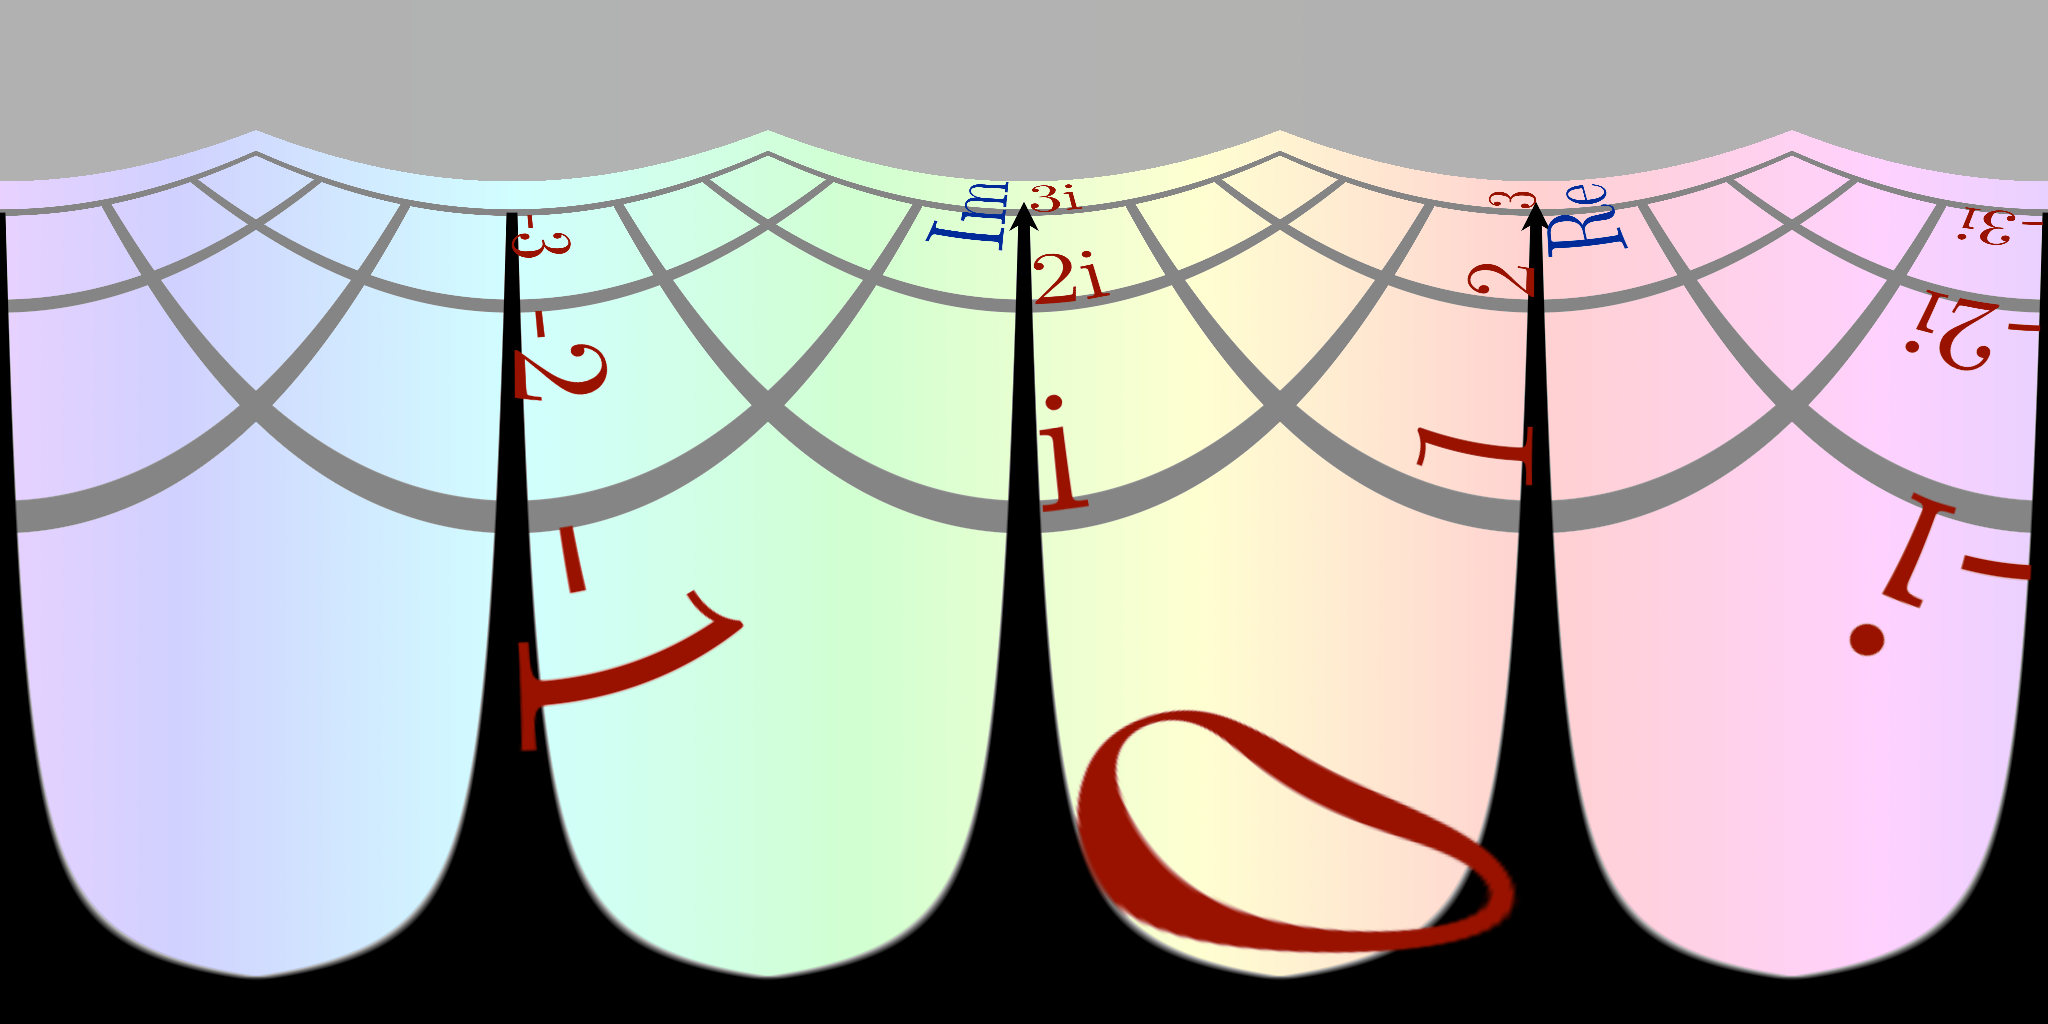
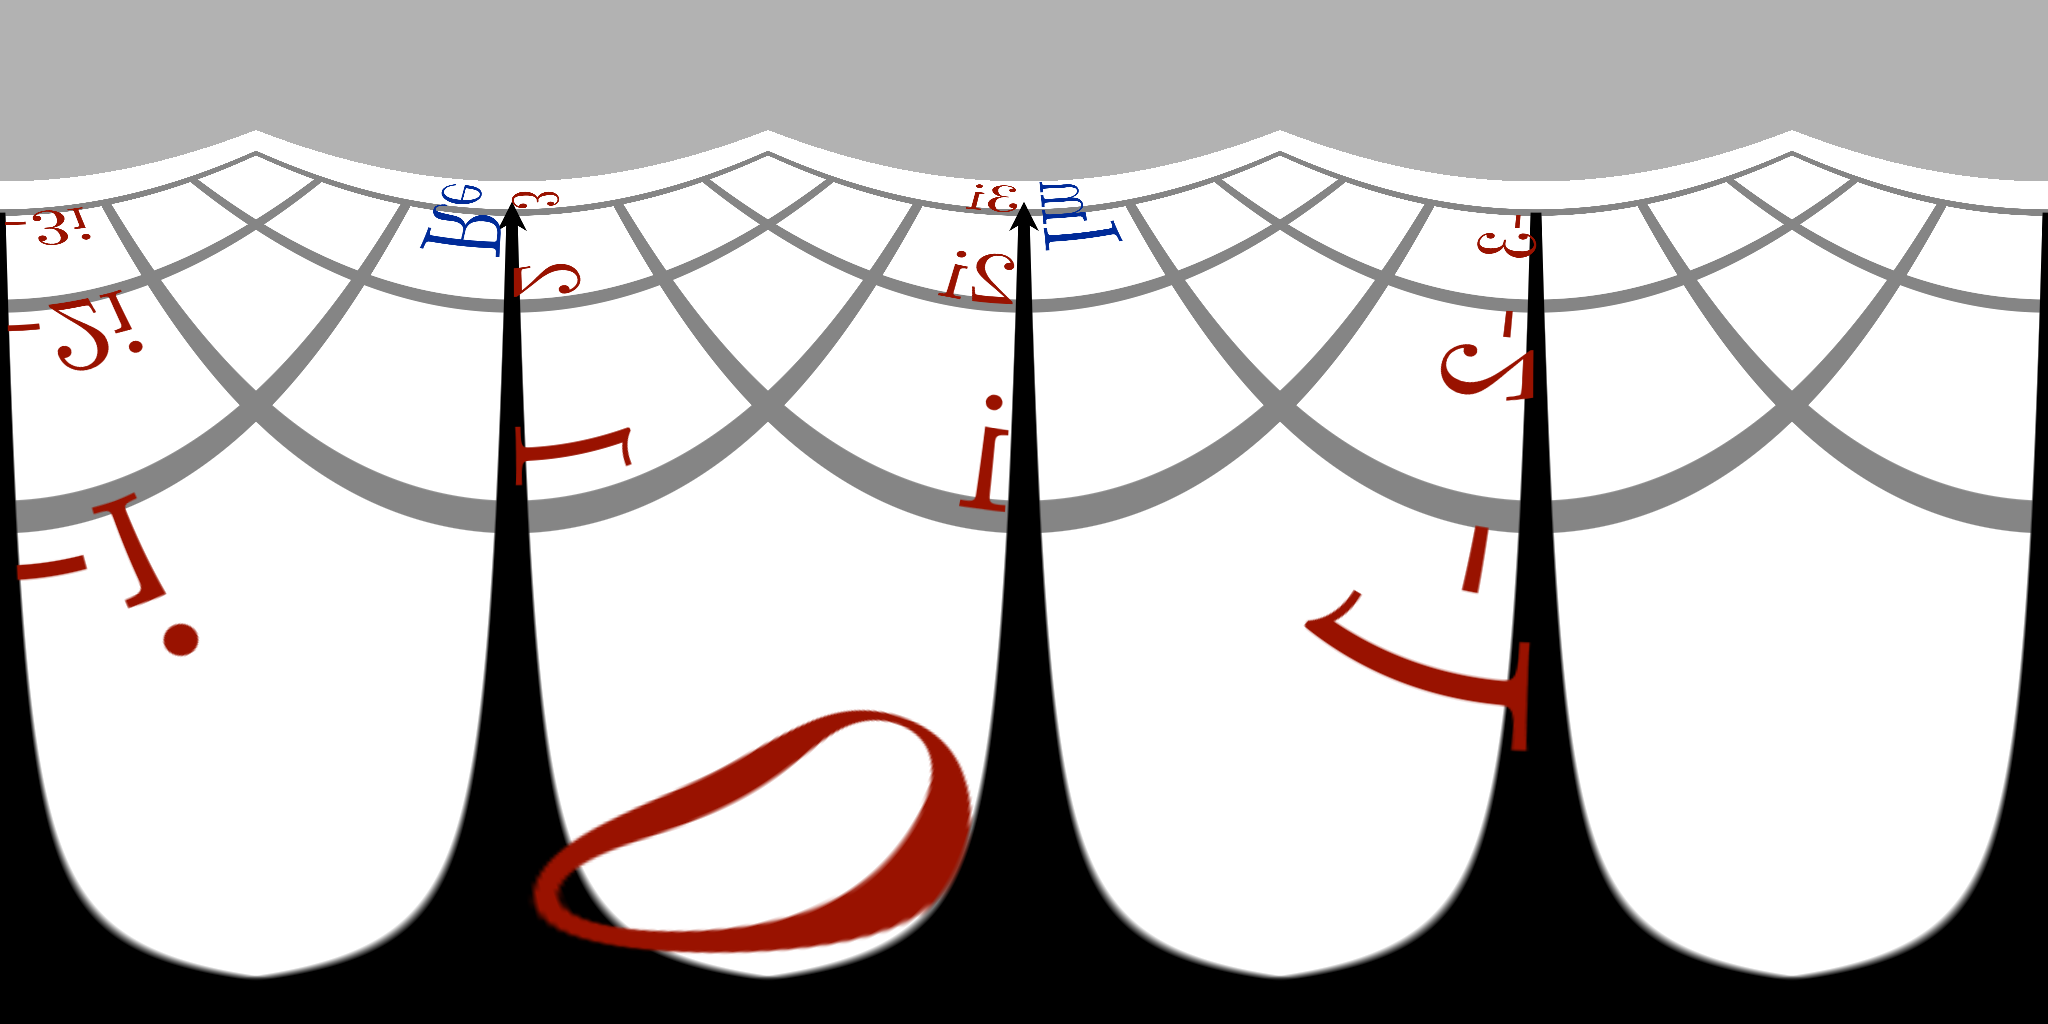
use phase based coloring for both stereographic and spherical

diff --git a/stereographic/index.html b/stereographic/index.html
@@ -110,7 +110,7 @@ switchmode():= (
   
   if(mode==0,
     readcamera(latlon) := (
-      imagergb([-pi,-pi/2], [pi,-pi/2], "complex", (latlon_2, latlon_1), repeat->true);
+      .8*imagergb([-pi,-pi/2], [pi,-pi/2], "complex", (latlon_2, latlon_1), repeat->true)+.2*hue(.75+latlon_2/2/pi)
     );
     readspec(latlon) := 0;
   );

diff --git a/spherical/index.html b/spherical/index.html
@@ -142,7 +142,7 @@ switchmode():= (
   
   if(mode==0,
     readcamera(latlon) := (
-      imagergb([-pi,-pi/2], [pi,-pi/2], "complex", (-latlon_2, latlon_1), repeat->true);
+      .8*imagergb([-pi,-pi/2], [pi,-pi/2], "complex", (-latlon_2, latlon_1), repeat->true)+.2*hue(.75-latlon_2/2/pi)
     );
   );
   
